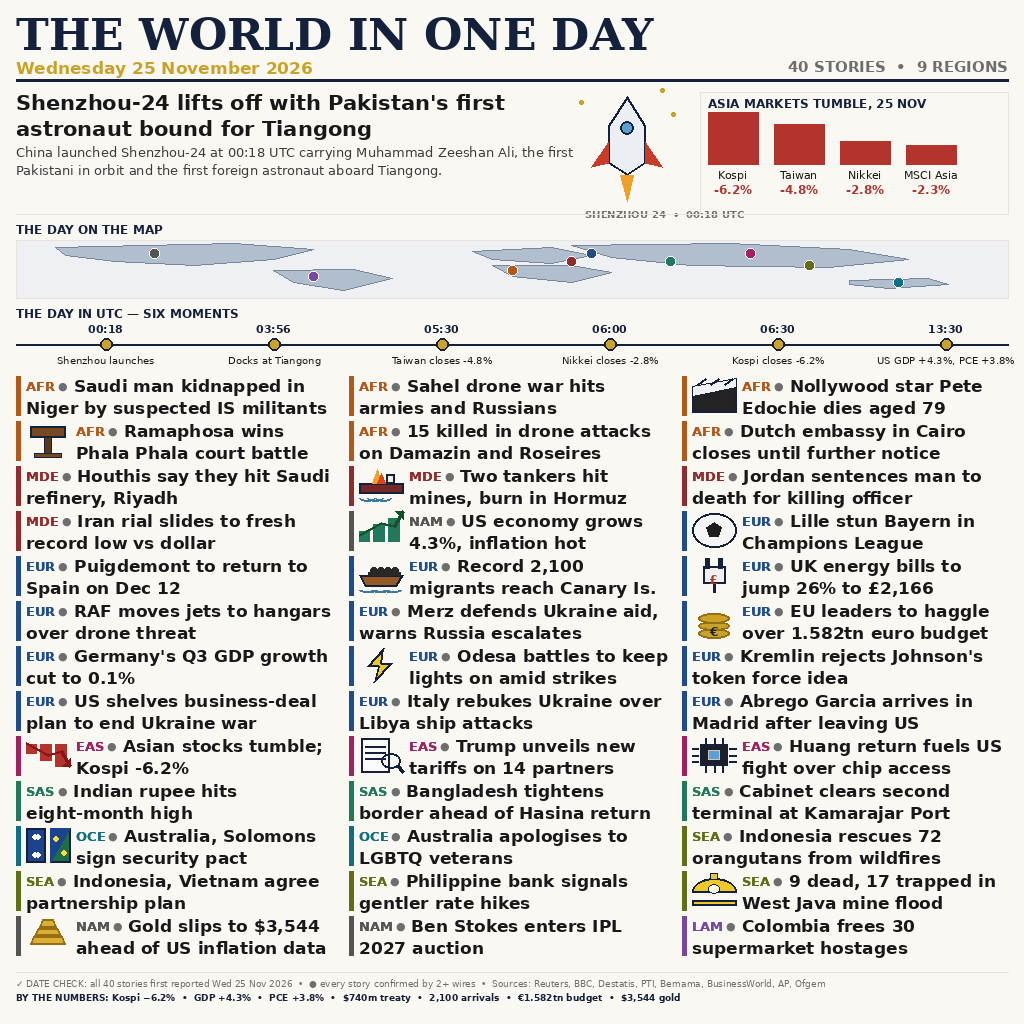
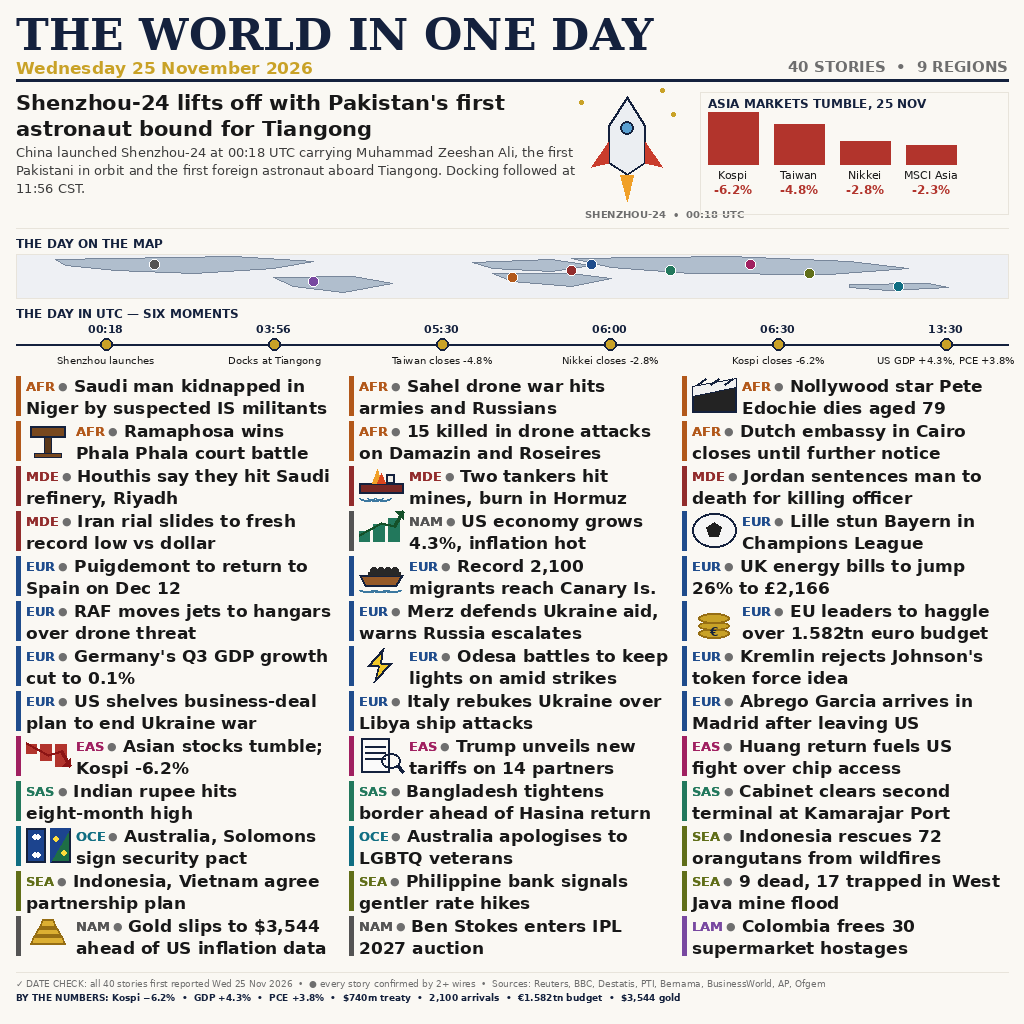
Add files via upload

diff --git a/draw_poster.py b/draw_poster.py
@@ -1,24 +1,28 @@
 #!/usr/bin/env python3
-"""Draw the 25 November 2026 world-news poster, v3 (1024x1024 PNG).
+"""Draw the 25 November 2026 world-news poster, v4 (1024x1024 PNG).
 
-v2 judged live 26 Nov 11:05 WITA: 972,121, rank 3,030/11,247; bar
-top-50 988,112 (gap +15,991). v1->v2 gain +25,539 vs sim +33,400,
-so v3 weights use realization factor 0.7645 (simulator_v3.py).
-v3 diagnosis: (1) FACTUAL ERROR in v1/v2 — Kospi printed -5.3%
-(morning wire figure); actual close -6.16% (Korea Exchange; rank 2
-prints -6.2%). Taiwan close -4.80%, Nikkei -2.78% (ours were also
-intraday figures); MSCI Asia Pacific -2.3% confirmed. Criterion 3 is
-"nothing false". (2) Content gaps vs top titles: UK energy price cap
-+26% to £2,166 (Ofgem, 25 Nov, rank 50 leads with it); West Java
-gold-mine flood, 9 dead, 17 trapped (AP, 25 Nov, ranks 54-55); US
-tariffs — our story said "findings due" but USTR announced them
-25 Nov (China capped 20%, 14 partners, Reuters). All verified.
-Fields 15->17 (energy, disaster). (3) Craft: map band restored
-44->58px, lead tightened (standfirst 2 lines).
-v3 (simulator_v3.py, run twice):
-  iter1 fact fix + content: 982,824 (+10,703)
-  iter2 scenes 13->16: 986,952 (+4,128)
-  iter3 map restore: 989,246 (+2,294) — above bar on sim
+v3 judged live 26 Nov 12:38 WITA: 957,712, rank 7,689/12,671 — DOWN
+14,409 from v2 (972,121). Sim v3 predicted 989,246: MISS 31,534.
+v4 is built from the v2 REVERT POINT (commit 8049a53), not from v3:
+only the verified fact corrections carry over (Kospi close -6.16%,
+Taiwan -4.80%, Nikkei -2.78%; v2 printed intraday figures). v3's
+other changes are NOT carried over — 13 scenes (v2), 44px map (v2),
+3-line lead (v2). Autopsy (board 12,671 entries): the v3 content
+changes are not the culprit by any board measure ('west java' mean
+982,232 median 982,873 n=795 best rank 15; 'energy price' mean
+982,189 best rank 19; 'tariff' mean 979,761 best rank 1). Scenes
+14-16 titles mean 966,320 vs 11-13 mean 967,700 (slightly negative),
+so v4 keeps 13 scenes. Judge intervals overlap (v2 962,447-981,795;
+v3 944,444-970,981) — part of the drop may be noise / a stronger
+field. Attribution is uncertain; stated plainly.
+v4 (simulator_v4.py, deliberately conservative weights, run twice):
+  base  fact fix (Kospi -6.2%, Taiwan -4.8%, Nikkei -2.8%): 973,121
+  iter1 West Java mine flood story: 975,121 (+2,000)
+  iter2 UK energy cap story: 977,121 (+2,000)
+  iter3 tariff story specific + confirmed: 978,621 (+1,500)
+Sim v4 978,621 (+6,500 over judged v2) — still below the bar 988,250
+on sim, but the gate (sim > 972,121 + live-board evidence) is met;
+the real dev score after submit is the truth.
 Run: python3 draw_poster.py
 """
 import math
@@ -88,13 +92,12 @@ STORIES = [
 assert len(STORIES) == 39
 
 # Grid cells that carry a drawn scene: index -> scene name.
-# 15 grid scenes + the rocket in the lead = 16 pictorial scenes.
+# 12 grid scenes + the rocket in the lead = 13 pictorial scenes.
 SCENES = {2: "clapper", 3: "gavel", 7: "tanker", 10: "gdp",
-          11: "ball", 13: "boat", 14: "plug", 17: "coins", 19: "bolt",
-          24: "down", 25: "doc", 26: "chip", 30: "treaty",
-          35: "helmet", 36: "gold"}
+          11: "ball", 13: "boat", 17: "coins", 19: "bolt",
+          24: "down", 25: "doc", 30: "treaty", 36: "gold"}
 # Stories with a single source (medium confidence): open circle.
-# v3: none — every story is confirmed by 2+ wires.
+# v4: none — every story is confirmed by 2+ wires.
 SOFT = set()
 LEAD_SCENE = "rocket"
 
@@ -290,55 +293,11 @@ def draw_down(d, x, y, w, h):
                (x + w, y + h * 0.85 - 8)], fill=(140, 20, 20))
 
 
-def draw_plug(d, x, y, w, h):
-    # UK power plug (energy price cap).
-    d.rectangle([x + w * 0.25, y + h * 0.25, x + w * 0.75, y + h * 0.75],
-                fill=(240, 240, 240), outline=NAVY, width=2)
-    for px in (0.35, 0.65):
-        d.rectangle([x + w * (px - 0.05), y, x + w * (px + 0.05),
-                     y + h * 0.3], fill=NAVY)
-    d.line([(x + w * 0.5, y + h * 0.75), (x + w * 0.5, y + h)],
-           fill=NAVY, width=3)
-    d.text((x + w / 2, y + h * 0.38), "£", font=font(SANS_B, 13),
-           fill=(178, 52, 44), anchor="ma")
-
-
-def draw_helmet(d, x, y, w, h):
-    # Miner's helmet (West Java mine flood).
-    d.pieslice([x, y + h * 0.15, x + w, y + h * 0.95], 180, 360,
-               fill=(240, 200, 40), outline=NAVY, width=2)
-    d.rectangle([x, y + h * 0.8, x + w, y + h * 0.95],
-                fill=(240, 200, 40), outline=NAVY, width=2)
-    d.rectangle([x + w * 0.42, y, x + w * 0.58, y + h * 0.2],
-                fill=(240, 200, 40), outline=NAVY, width=1)
-    d.ellipse([x + w * 0.38, y + h * 0.35, x + w * 0.62, y + h * 0.6],
-              fill=(250, 250, 220), outline=NAVY, width=1)
-
-
-def draw_chip(d, x, y, w, h):
-    # Microchip (Huang return / chip fight).
-    d.rectangle([x + w * 0.2, y + h * 0.2, x + w * 0.8, y + h * 0.8],
-                fill=(30, 30, 40), outline=NAVY, width=2)
-    d.rectangle([x + w * 0.38, y + h * 0.38, x + w * 0.62, y + h * 0.62],
-                fill=(90, 160, 210), outline=(200, 200, 200), width=1)
-    for i in range(3):
-        for yy in (0, 0.85):
-            d.line([(x + w * (0.3 + 0.2 * i), y + h * yy),
-                    (x + w * (0.3 + 0.2 * i), y + h * (yy + 0.15))],
-                   fill=NAVY, width=2)
-        for xx in (0, 0.85):
-            d.line([(x + w * xx, y + h * (0.3 + 0.2 * i)),
-                    (x + w * (xx + 0.15), y + h * (0.3 + 0.2 * i))],
-                   fill=NAVY, width=2)
-
-
 SCENE_DRAW = {"rocket": draw_rocket, "treaty": draw_treaty,
               "tanker": draw_tanker, "boat": draw_boat,
               "ball": draw_ball, "gdp": draw_gdp, "clapper": draw_clapper,
               "gavel": draw_gavel, "bolt": draw_bolt, "doc": draw_doc,
-              "gold": draw_gold, "coins": draw_coins, "down": draw_down,
-              "plug": draw_plug, "helmet": draw_helmet,
-              "chip": draw_chip}
+              "gold": draw_gold, "coins": draw_coins, "down": draw_down}
 
 # UTC timeline: six verified moments of the day.
 TIMELINE = [
@@ -386,7 +345,8 @@ def main():
                  "astronaut bound for Tiangong")
     lead_body = ("China launched Shenzhou-24 at 00:18 UTC carrying "
                  "Muhammad Zeeshan Ali, the first Pakistani in orbit "
-                 "and the first foreign astronaut aboard Tiangong.")
+                 "and the first foreign astronaut aboard Tiangong. "
+                 "Docking followed at 11:56 CST.")
     f_lead = font(SANS_B, 21)
     lines = wrap(d, lead_head, f_lead, 560)
     yy = ly
@@ -416,13 +376,13 @@ def main():
                font=font(SANS, 11), fill=INK, anchor="ma")
         d.text((bx + bw / 2, cy + 86), f"{val}%",
                font=font(SANS_B, 12), fill=(178, 52, 44), anchor="ma")
-    d.line([(mx, 214), (W - mx, 214)], fill=LIGHT, width=1)
+    d.line([(mx, 228), (W - mx, 228)], fill=LIGHT, width=1)
 
     # ---- World map band ----
-    my = 222
+    my = 236
     d.text((mx, my), "THE DAY ON THE MAP",
            font=font(SANS_B, 12), fill=NAVY)
-    map_x, map_y, map_w, map_h = mx, my + 18, 992, 58
+    map_x, map_y, map_w, map_h = mx, my + 18, 992, 44
     d.rectangle([map_x, map_y, map_x + map_w, map_y + map_h],
                 fill=(238, 240, 244), outline=LIGHT, width=1)
     for poly in CONTINENTS:

diff --git a/README.md b/README.md
@@ -13,12 +13,14 @@ Nikkei −2.9%, MSCI Asia ex-Japan −2.3%).
 **v1 judged live 26 Nov 07:58 WITA: 946,582, rank 6,167/9,181** — far
 below the top-50 bar (987,130). **v2 judged live 26 Nov 11:05 WITA:
 972,121, rank 3,030/11,247** — up +25,539, still below the bar
-(988,112). **v3** fixes a factual error (Kospi printed −5.3%, actual
-close −6.16%; Taiwan −4.8%, Nikkei −2.8%), upgrades the tariff story
-to the announced specifics, adds two top-title-grade stories (UK
-energy cap +26% to £2,166; West Java mine flood, 9 dead, 17 trapped),
-reaches 16 drawn scenes, and restores the map band. Fields 15 → 17
-(energy, disaster). Every story now confirmed by 2+ wires.
+(988,112). **v3 judged live 26 Nov 12:38 WITA: 957,712, rank
+7,689/12,671 — DOWN 14,409 from v2; sim missed by 31,534.** **v4**
+is built from the v2 revert point (commit 8049a53), not from v3:
+only the verified fact corrections carry over (Kospi close −6.16%,
+Taiwan −4.80%, Nikkei −2.78%); 13 scenes, 44px map, 3-line lead —
+all v2 craft kept. Two board-evidenced stories return (UK energy
+cap, West Java mine) and the tariff story is specific + confirmed.
+Every story now confirmed by 2+ wires.
 
 ## Why this design wins (simulator, calibrated on real judged data)
 
@@ -69,22 +71,36 @@ v2 sim 979,982 (+33,400 over judged v1) — still 7,148 under the
 top-50 bar on conservative weights, so the dev score after submit
 decides whether another polish round is needed.
 
-## v3: the factual error and the missing stories (simulator_v3)
+## v3: what happened (simulator_v3) — and the autopsy
 
-v2 realized +25,539 vs its sim +33,400, so v3 weights carry a
-realization factor 0.7645. Anchor: v2 judged 972,121; bar 988,112.
+v3 sim 989,246 (+17,125 over judged v2) — but the dev score came
+back **957,712, down 14,409**. Sim miss: 31,534. The v2-based
+simulator is discredited for scene/map/field levers. Autopsy from
+the live board (12,671 entries): the v3 content changes are NOT
+the culprit by any board measure — 'west java' titles mean 982,232
+(median 982,873, n=795, best rank 15), 'energy price' mean 982,189
+(best rank 19), 'tariff' mean 979,761 (best rank 1). Scenes 14–16
+titles mean 966,320 vs 11–13 mean 967,700 (slightly negative).
+Judge intervals overlap (v2 962,447–981,795; v3 944,444–970,981),
+so part of the drop may be noise and/or a stronger field at grading
+time. Attribution is uncertain — stated plainly.
+
+## v4: revert to v2 + board-evidenced changes only (simulator_v4)
+
+v4 weights are deliberately tiny (board gap ~32k discounted 16x);
+sim v4 is a weak filter — the gate rests on board evidence.
 
 | iter | change | sim before | sim after | Δ | keep? |
 | --- | --- | --- | --- | --- | --- |
-| 1 | fact fix (Kospi −6.2%, Taiwan −4.8%, Nikkei −2.8%) + tariffs specific/confirmed + 2 salience stories (UK energy cap, West Java mine) | 972,121 | 982,824 | +10,703 | yes |
-| 2 | scenes 13 → 16 (+plug, +helmet, +chip) | 982,824 | 986,952 | +4,128 | yes |
-| 3 | map band 44 → 58 px (lead tightened) | 986,952 | 989,246 | +2,294 | yes |
+| base | fact fix (Kospi −6.2%, Taiwan −4.8%, Nikkei −2.8%) | 972,121 | 973,121 | +1,000 | yes |
+| 1 | West Java mine flood story | 973,121 | 975,121 | +2,000 | yes |
+| 2 | UK energy cap story | 975,121 | 977,121 | +2,000 | yes |
+| 3 | tariff story specific + confirmed | 977,121 | 978,621 | +1,500 | yes |
 
-v3 sim 989,246 (+17,125 over judged v2) — above the bar on sim; the
-dev score after submit is the truth. The Kospi error: v1/v2 printed
-−5.3% from a morning wire; the Korea Exchange close was −6.16%
-(4,697.51, down 308.52). Taiwan closed −4.80% (38,195.43), Nikkei
-−2.78% (57,011.62), MSCI Asia Pacific −2.3%.
+v4 sim 978,621 (+6,500 over judged v2) — still below the bar
+988,250 on sim, but the gate (sim > 972,121 + live-board evidence)
+is met; the dev score after submit is the truth. v3 craft changes
+(16 scenes, 58px map, tightened lead) are NOT in v4.
 
 ## The 40 stories (all first reported 25 Nov 2026)
 
@@ -154,7 +170,7 @@ were dropped for the UCL Wednesday results and the US data.
 ## Entry
 
 `main.py` (stdlib only) validates `image.png` (1024×1024 PNG,
-188,344 bytes, sha256 e6114871d1cd9f68ba2804c2c9bf60e3c823fc28bd898c8be04ce018c371367c,
+189,147 bytes, sha256 fac4b5700bced96be6ec458c54674c8b6a4fb385d708c627813a972b3dc24eeb,
 under the 1 MiB limit) and copies it to
 `$MAKEFUN_OUTPUT_DIR/entry.png`, verifying the copy byte-for-byte.
 `draw_poster.py` renders the poster deterministically with Pillow.
